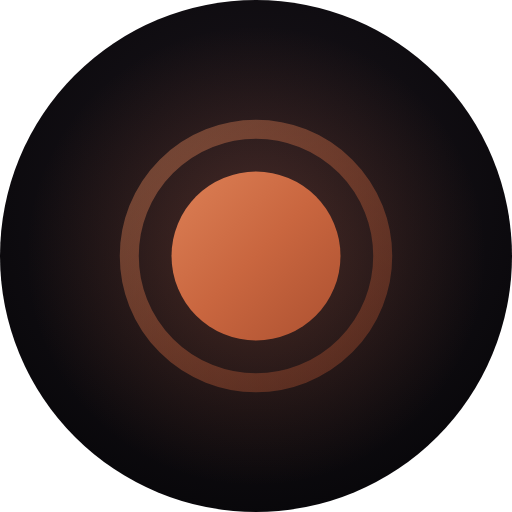
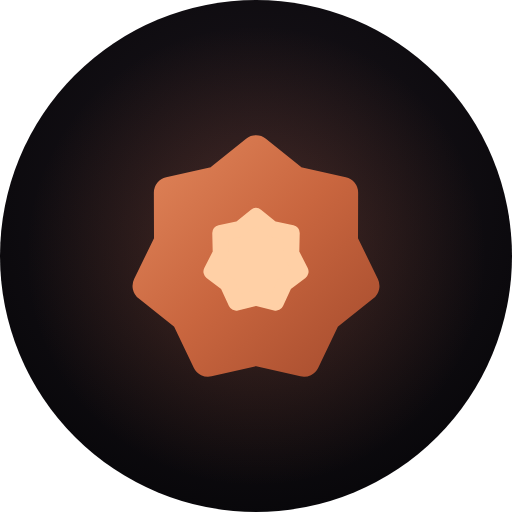
ui: redesigned tier glyphs (spark, ember, solstice, nova) as one family
The old four did not read as a set: spark was a 4 px speck at 10-12 px,
ember a dot with a faint ring (a radio button, and confusable with the
"Ready" status dot), solstice and nova both spiky circles, and nova
carried less ink than solstice, so the climb broke at the top.

New set, drawn once in shared/tier-glyphs.ts on a 24-unit grid (snapped
for 12 px on a 2x screen), solid, centred, each throwing off more points
and reaching further than the one below: a four-point spark, a soft
seven-lobed coal, the sun (disc + eight rays), a twelve-point burst.
From 32 px up each adds a white-hot core. TierGlyph keeps its API.

Nova's glow is tighter (1.5 px) on dark and off on light, where it read
as blur. The presence images use the shared drawing with each tier's
--fx-*-core, a little larger on the disc (74%); tier-*.png re-rendered.

Changed region(s): [[0.2188, 0.2188, 0.7812, 0.7812], [0.375, 0.4062, 0.625, 0.625]]

diff --git a/ui/design/presence/render.ts b/ui/design/presence/render.ts
@@ -1,6 +1,7 @@
 // Renders the Discord Rich Presence images (electron/discord-presence.ts) into this folder:
 //   provenance.png       1024 x 1024, the app icon full-bleed (Discord rounds the corners itself)
-//   tier-<id>.png        512 x 512, each tier's glyph (TierBadge.tsx) in its colours (tokens.css)
+//   tier-<id>.png        512 x 512, each tier's glyph (shared/tier-glyphs.ts, the detailed drawing
+//                        with its core) in its colours (tokens.css)
 //   fallback-<id>.png    512 x 512, the fallbacks' terminal glyph in their colours
 // Discord crops the small image to a circle, so the glyphs sit on a dark disc.
 //   cd ui && node design/presence/render.ts      (headless Chromium, scripts/chromium.ts)
@@ -10,6 +11,7 @@ import path from "node:path";
 import { fileURLToPath } from "node:url";
 import { chromium } from "playwright";
 import { findChromium } from "../../scripts/chromium.ts";
+import { TIER_GLYPHS, type TierGlyphId } from "../../shared/tier-glyphs.ts";
 
 const here = path.dirname(fileURLToPath(import.meta.url));
 
@@ -31,39 +33,48 @@ const GLOW: Record<string, string> = {
   "fallback-codex": "#45d3c7",
 };
 
-// TierBadge.tsx's glyphs (16-unit box) and icons.tsx's IconTerminal (24-unit box).
+// Each tier's core: the white-hot end of its effect ramp (--fx-<id>-core, dark theme).
+const CORE: Record<TierGlyphId, string> = {
+  spark: "#fff5d6",
+  ember: "#ffd0a6",
+  solstice: "#fff0c8",
+  nova: "#f6f1ff",
+};
+
+// The tier glyphs (shared/tier-glyphs.ts, 24-unit box) in their detailed drawing, with the core,
+// and icons.tsx's IconTerminal (24-unit box).
 const G = "url(#g)";
-const GLYPHS: Record<string, { box: number; body: string }> = {
-  "tier-spark": {
-    box: 16,
-    body: `<path d="M8 3l1.1 3.9 3.9 1.1-3.9 1.1-1.1 3.9-1.1-3.9-3.9-1.1 3.9-1.1z" fill="${G}"/>`,
-  },
-  "tier-ember": {
-    box: 16,
-    body: `<circle cx="8" cy="8" r="4" fill="${G}"/><circle cx="8" cy="8" r="6" fill="none" stroke="${G}" stroke-width="0.9" opacity="0.4"/>`,
-  },
-  "tier-solstice": {
-    box: 16,
-    body: `<circle cx="8" cy="8" r="3.4" fill="${G}"/><g stroke="${G}" stroke-width="1.4" stroke-linecap="round"><path d="M8 1.2v1.6M8 13.2v1.6M1.2 8h1.6M13.2 8h1.6M3.2 3.2l1.1 1.1M11.7 11.7l1.1 1.1M3.2 12.8l1.1-1.1M11.7 4.3l1.1-1.1"/></g>`,
-  },
-  "tier-nova": {
-    box: 16,
-    body: `<path d="M8 0.5l1.3 4.6 4.1-2.5-2.5 4.1L15.5 8l-4.6 1.3 2.5 4.1-4.1-2.5L8 15.5l-1.3-4.6-4.1 2.5 2.5-4.1L0.5 8l4.6-1.3-2.5-4.1 4.1 2.5z" fill="${G}"/><circle cx="8" cy="8" r="2" fill="#fff1f7"/>`,
-  },
+function tierBody(id: TierGlyphId): string {
+  const t = TIER_GLYPHS[id];
+  const soft = (w: number, paint: string) =>
+    w ? ` stroke="${paint}" stroke-width="${w}" stroke-linejoin="round"` : "";
+  return (
+    `<path d="${t.body}" fill="${G}"${soft(t.soften, G)}/>` +
+    (t.rays
+      ? `<path d="${t.rays}" fill="none" stroke="${G}" stroke-width="2" stroke-linecap="round"/>`
+      : "") +
+    `<path d="${t.core}" fill="${CORE[id]}"${soft(t.coreSoften, CORE[id])}/>`
+  );
+}
+// fill: the share of the disc the glyph's box spans (the tier glyphs fill their box to its edge,
+// and Discord shows this image at about 20-30 px, so they get more of it).
+const GLYPHS: Record<string, { box: number; body: string; fill?: number }> = {
   "fallback-claude": {
     box: 24,
     body: `<path d="M4 17l6-6-6-6M12 19h8" fill="none" stroke="${G}" stroke-width="2.4" stroke-linecap="round" stroke-linejoin="round"/>`,
   },
 };
+for (const id of Object.keys(TIER_GLYPHS) as TierGlyphId[])
+  GLYPHS[`tier-${id}`] = { box: 24, body: tierBody(id), fill: 0.74 };
 GLYPHS["fallback-codex"] = GLYPHS["fallback-claude"];
 
 function smallSvg(key: string): string {
-  const { box, body } = GLYPHS[key];
+  const { box, body, fill = 0.66 } = GLYPHS[key];
   const stops = GRADS[key]
     .map((c, i, a) => `<stop offset="${i / (a.length - 1)}" stop-color="${c}"/>`)
     .join("");
-  // Glyph box drawn at 66% of the disc, centred.
-  const size = 512 * 0.66;
+  // Glyph box drawn at `fill` of the disc, centred.
+  const size = 512 * fill;
   const k = size / box;
   const off = (512 - size) / 2;
   return `<svg xmlns="http://www.w3.org/2000/svg" width="512" height="512" viewBox="0 0 512 512">

diff --git a/ui/src/components/TierBadge.tsx b/ui/src/components/TierBadge.tsx
@@ -1,63 +1,57 @@
+import { DETAIL_FROM, TIER_GLYPHS } from "../../shared/tier-glyphs";
 import { fallbackLabel, fallbackOf } from "../fallback/model";
 import { useAppState } from "../store/store";
 import { splitModel, tierOf, type TierId } from "../theme/tiers";
 import { IconTerminal } from "./icons";
 
 /**
- * Per-tier glyph, brighter as the tier rises: a small spark, a glowing coal (ember),
- * a sun (solstice), a starburst (nova). Colored via `color: var(--tier-<id>)`.
+ * Per-tier glyph, more points and reach as the tier rises: a spark, a glowing coal (ember),
+ * the sun (solstice), a stellar burst (nova); drawn in shared/tier-glyphs.ts. From DETAIL_FROM
+ * px up it adds a white-hot core. Colored via `color: var(--tier-<id>)`.
  */
 export function TierGlyph({ tier, size = 12 }: { tier: TierId | null; size?: number }) {
-  const common = {
-    "width": size,
-    "height": size,
-    "viewBox": "0 0 16 16",
-    "className": "tier-glyph",
-    "aria-hidden": true,
-  };
-  switch (tier) {
-    case "spark":
-      return (
-        <svg {...common}>
+  const g = tier ? TIER_GLYPHS[tier] : null;
+  return (
+    <svg
+      width={size}
+      height={size}
+      viewBox="0 0 24 24"
+      className="tier-glyph"
+      data-glyph={g ? tier : undefined}
+      aria-hidden
+    >
+      {g ? (
+        <>
           <path
-            d="M8 3l1.1 3.9 3.9 1.1-3.9 1.1-1.1 3.9-1.1-3.9-3.9-1.1 3.9-1.1z"
+            d={g.body}
             fill="currentColor"
+            stroke={g.soften ? "currentColor" : undefined}
+            strokeWidth={g.soften || undefined}
+            strokeLinejoin="round"
           />
-        </svg>
-      );
-    case "ember":
-      return (
-        <svg {...common}>
-          <circle cx="8" cy="8" r="4" fill="currentColor" opacity="0.9" />
-          <circle cx="8" cy="8" r="6" fill="none" stroke="currentColor" opacity="0.25" />
-        </svg>
-      );
-    case "solstice":
-      return (
-        <svg {...common}>
-          <circle cx="8" cy="8" r="3.4" fill="currentColor" />
-          <g stroke="currentColor" strokeWidth="1.4" strokeLinecap="round">
-            <path d="M8 1.2v1.6M8 13.2v1.6M1.2 8h1.6M13.2 8h1.6M3.2 3.2l1.1 1.1M11.7 11.7l1.1 1.1M3.2 12.8l1.1-1.1M11.7 4.3l1.1-1.1" />
-          </g>
-        </svg>
-      );
-    case "nova":
-      return (
-        <svg {...common}>
-          <path
-            d="M8 0.5l1.3 4.6 4.1-2.5-2.5 4.1L15.5 8l-4.6 1.3 2.5 4.1-4.1-2.5L8 15.5l-1.3-4.6-4.1 2.5 2.5-4.1L0.5 8l4.6-1.3-2.5-4.1 4.1 2.5z"
-            fill="currentColor"
-          />
-          <circle cx="8" cy="8" r="2" fill="var(--glint)" />
-        </svg>
-      );
-    default:
-      return (
-        <svg {...common}>
-          <circle cx="8" cy="8" r="3.5" fill="currentColor" opacity="0.6" />
-        </svg>
-      );
-  }
+          {g.rays && (
+            <path
+              d={g.rays}
+              fill="none"
+              stroke="currentColor"
+              strokeWidth={2}
+              strokeLinecap="round"
+            />
+          )}
+          {size >= DETAIL_FROM && (
+            <path
+              d={g.core}
+              className="tier-glyph-core"
+              strokeWidth={g.coreSoften || 0}
+              strokeLinejoin="round"
+            />
+          )}
+        </>
+      ) : (
+        <circle cx="12" cy="12" r="5" fill="currentColor" opacity="0.6" />
+      )}
+    </svg>
+  );
 }
 
 /**

diff --git a/ui/shared/tier-glyphs.ts b/ui/shared/tier-glyphs.ts
@@ -1,0 +1,63 @@
+// The four tiers' glyphs (spark < ember < solstice < nova), drawn once here for the page
+// (src/components/TierBadge.tsx) and the Discord presence images (design/presence/render.ts).
+//
+// One family on a 24-unit grid, centred, solid: each tier throws off more points than the one
+// below and reaches further out, so the four read as a climb even without their colours.
+//   spark     a four-point spark                       4 points, 16 units across
+//   ember     a glowing coal, seven soft lobes          7 lobes, 16 units, the densest mass
+//   solstice  the sun: a disc and eight rays            8 rays, 22 units
+//   nova      a stellar burst, twelve sharp points      12 points, the full 24 units
+// Drawn for 12 px on a 2x screen (1 unit = 1 device pixel): the sun's disc, its straight rays and
+// the tips land on whole units, and nothing is thinner than 2 units. From DETAIL_FROM px up each
+// glyph adds a white-hot core, a little larger as the tier rises.
+
+export type TierGlyphId = "spark" | "ember" | "solstice" | "nova";
+
+export interface TierGlyphShape {
+  /** The filled silhouette. */
+  body: string;
+  /** Width of a round-joined outline in the body's paint that softens its corners (0: none). */
+  soften: number;
+  /** Round-capped 2-unit strokes in the body's paint (solstice's rays). */
+  rays?: string;
+  /** The white-hot core of the detailed drawing, and its softening outline. */
+  core: string;
+  coreSoften: number;
+}
+
+/** Size (px) from which the glyph draws its core. */
+export const DETAIL_FROM = 32;
+
+const disc = (r: number) => `M12 ${12 - r}a${r} ${r} 0 1 1 0 ${2 * r}a${r} ${r} 0 1 1 0 ${-2 * r}Z`;
+
+export const TIER_GLYPHS: Record<TierGlyphId, TierGlyphShape> = {
+  // Curved-sided four-point spark, tips at radius 8.
+  spark: {
+    body: "M12 4C12.96 8.32 15.68 11.04 20 12C15.68 12.96 12.96 15.68 12 20C11.04 15.68 8.32 12.96 4 12C8.32 11.04 11.04 8.32 12 4Z",
+    soften: 0,
+    core: "M12 9C12.36 10.62 13.38 11.64 15 12C13.38 12.36 12.36 13.38 12 15C11.64 13.38 10.62 12.36 9 12C10.62 11.64 11.64 10.62 12 9Z",
+    coreSoften: 0,
+  },
+  // Seven-lobed coal (radii 7 / 5.6, optically centred), softened by a 2-unit round outline.
+  ember: {
+    body: "M12 5.35L14.43 7.3L17.47 7.98L17.46 11.1L18.82 13.9L16.38 15.84L15.04 18.65L12 17.95L8.96 18.65L7.62 15.84L5.18 13.9L6.54 11.1L6.53 7.98L9.57 7.3Z",
+    soften: 2,
+    core: "M12 9.45L13 10.27L14.27 10.54L14.24 11.83L14.83 12.99L13.8 13.78L13.26 14.96L12 14.65L10.74 14.96L10.2 13.78L9.17 12.99L9.76 11.83L9.73 10.54L11 10.27Z",
+    coreSoften: 1,
+  },
+  // Disc of radius 5; eight rays from radius 8 to 10 (with their caps, 7 to 11).
+  solstice: {
+    body: disc(5),
+    soften: 0,
+    rays: "M12 4V2M12 20v2M4 12H2M20 12h2M17.66 6.34l1.41-1.41M6.34 17.66l-1.41 1.41M6.34 6.34L4.93 4.93M17.66 17.66l1.41 1.41",
+    core: disc(3),
+    coreSoften: 0,
+  },
+  // Twelve-point burst, radii 12 / 5.4.
+  nova: {
+    body: "M12 0L13.4 6.78L18 1.61L15.82 8.18L22.39 6L17.22 10.6L24 12L17.22 13.4L22.39 18L15.82 15.82L18 22.39L13.4 17.22L12 24L10.6 17.22L6 22.39L8.18 15.82L1.61 18L6.78 13.4L0 12L6.78 10.6L1.61 6L8.18 8.18L6 1.61L10.6 6.78Z",
+    soften: 0,
+    core: disc(3.6),
+    coreSoften: 0,
+  },
+};

diff --git a/ui/src/styles.css b/ui/src/styles.css
@@ -581,9 +581,18 @@ select {
   font-weight: 400;
   color: var(--muted);
 }
-[data-tier="nova"] .tier-glyph,
-.tier-badge[data-tier="nova"] .tier-glyph {
-  filter: drop-shadow(0 0 3px color-mix(in srgb, var(--tier-nova) 70%, transparent));
+/* The white-hot core a tier glyph draws from 32 px up (DETAIL_FROM, shared/tier-glyphs.ts). */
+.tier-glyph-core {
+  fill: color-mix(in srgb, currentColor 35%, var(--glint));
+  stroke: color-mix(in srgb, currentColor 35%, var(--glint));
+}
+/* Nova's burst glows faintly on the dark theme; tight, so its points stay sharp at 10-14 px. On
+   paper a glow reads as blur, and the drawing already says it is the brightest. */
+[data-tier="nova"] .tier-glyph {
+  filter: drop-shadow(0 0 1.5px color-mix(in srgb, var(--tier-nova) 55%, transparent));
+}
+[data-theme="light"] [data-tier="nova"] .tier-glyph {
+  filter: none;
 }
 
 /* ---- conversation ------------------------------------------------------ */

diff --git a/ui/src/theme/tokens.css b/ui/src/theme/tokens.css
@@ -35,7 +35,7 @@
   --crimson: #e23a52;
   --magenta: #ff4fa3; /* highlight, used sparingly */
   --corona: #ffc061; /* gold, sun-core */
-  --glint: #fff1f7; /* white-hot centre of the logo and the nova glyph */
+  --glint: #fff1f7; /* white-hot centre of the logo and of the tier glyphs drawn large */
   --accent: var(--ember);
   --accent-fg: #1c0e07; /* text on accent fills */
   --accent-grad: linear-gradient(135deg, var(--corona) 0%, var(--ember) 45%, var(--crimson) 100%);
